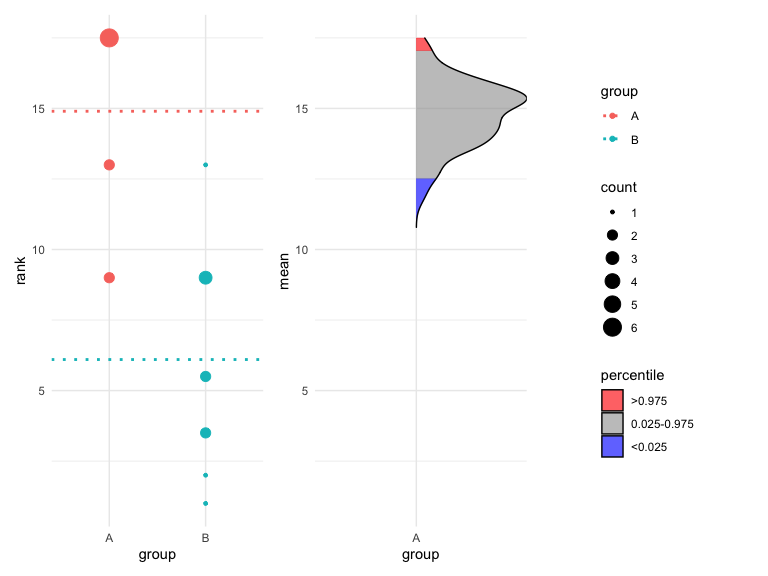
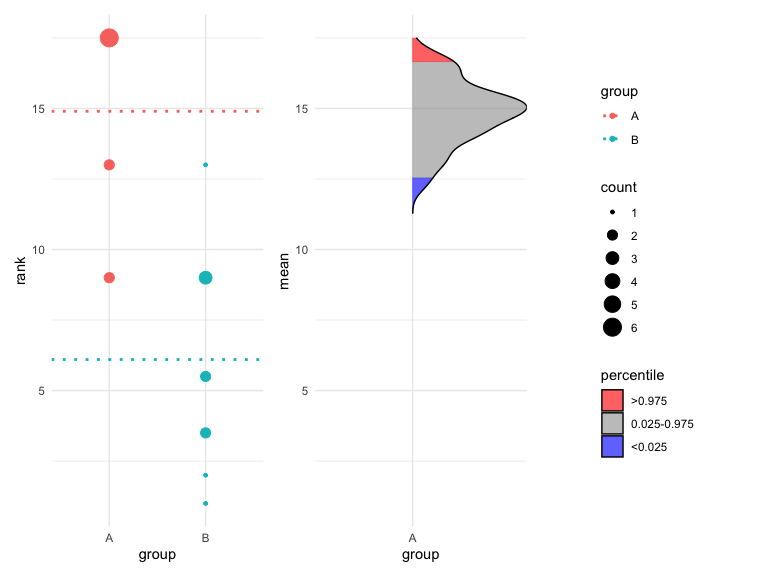
Update Readme

Changed region(s): [[0.5312, 0.0625, 0.6875, 0.4062], [0.5312, 0.9062, 0.5625, 0.9375]]

diff --git a/Readme.md b/Readme.md
@@ -1,7 +1,7 @@
 besthr - Generating Bootstrap Estimation Distributions of HR Data
 ================
 Dan MacLean
-03 May, 2022
+10 May, 2022
 
 <!-- badges: start --> <!-- badges: end -->
 
@@ -17,7 +17,7 @@ already have it)
 
 ``` r
 #install.packages("devtools")
-devtools::install_github("TeamMacLean/besthr@allow_titles"
+devtools::install_github("TeamMacLean/besthr"
 )
 ```
 
@@ -84,7 +84,7 @@ hr_est_1
     ## Unpaired mean rank difference of A (14.9, n=10) minus B (6.1, n=10)
     ##  8.8
     ## Confidence Intervals (0.025, 0.975)
-    ##  3.5475, 8.52625
+    ##  4.12375, 8.6025
     ## 
     ## 100 bootstrap resamples.
 
@@ -92,7 +92,7 @@ hr_est_1
 plot(hr_est_1)
 ```
 
-    ## Picking joint bandwidth of 0.431
+    ## Picking joint bandwidth of 0.443
 
 ![](Readme_files/figure-gfm/unnamed-chunk-2-1.png)<!-- -->
 
@@ -106,7 +106,7 @@ estimate(hr_data_1, score, group, control = "B" ) %>%
   plot()
 ```
 
-    ## Picking joint bandwidth of 0.371
+    ## Picking joint bandwidth of 0.338
 
 ![](Readme_files/figure-gfm/unnamed-chunk-3-1.png)<!-- -->
 
@@ -119,7 +119,7 @@ estimate(hr_data_1, score, group, control = "A", nits = 1000, low = 0.4, high = 
   plot()
 ```
 
-    ## Picking joint bandwidth of 0.253
+    ## Picking joint bandwidth of 0.251
 
 ![](Readme_files/figure-gfm/unnamed-chunk-4-1.png)<!-- -->
 
@@ -174,12 +174,12 @@ hr_est_3
     ## Unpaired mean rank difference of A (5, n=3) minus B (2, n=3)
     ##  3
     ## Confidence Intervals (0.025, 0.975)
-    ##  1, 3
+    ##  1, 2.84166666666666
     ## 
     ## Unpaired mean rank difference of A (5, n=3) minus C (8, n=3)
     ##  -3
     ## Confidence Intervals (0.025, 0.975)
-    ##  7, 8.84166666666666
+    ##  7.33333333333333, 9
     ## 
     ## 100 bootstrap resamples.
 
@@ -187,7 +187,7 @@ hr_est_3
 plot(hr_est_3)
 ```
 
-    ## Picking joint bandwidth of 0.178
+    ## Picking joint bandwidth of 0.172
 
 ![](Readme_files/figure-gfm/unnamed-chunk-5-1.png)<!-- -->
 
@@ -203,7 +203,7 @@ hr_est_3 %>%
   plot(which = "just_data")
 ```
 
-    ## Picking joint bandwidth of 0.178
+    ## Picking joint bandwidth of 0.172
 
 ![](Readme_files/figure-gfm/unnamed-chunk-6-1.png)<!-- -->
 
@@ -230,7 +230,7 @@ p + plot_annotation(title = 'A stylish besthr plot',
                     caption = 'Though this example is not meaningful')
 ```
 
-    ## Picking joint bandwidth of 0.431
+    ## Picking joint bandwidth of 0.443
 
 ![](Readme_files/figure-gfm/unnamed-chunk-7-1.png)<!-- -->
 
@@ -238,7 +238,7 @@ p + plot_annotation(title = 'A stylish besthr plot',
 p
 ```
 
-    ## Picking joint bandwidth of 0.431
+    ## Picking joint bandwidth of 0.443
 
 ![](Readme_files/figure-gfm/unnamed-chunk-7-2.png)<!-- -->
 
@@ -258,7 +258,7 @@ p[[1]] <- p[[1]] + theme(axis.title.y = element_text(family = "Times", colour="b
 p
 ```
 
-    ## Picking joint bandwidth of 0.431
+    ## Picking joint bandwidth of 0.443
 
 ![](Readme_files/figure-gfm/unnamed-chunk-8-1.png)<!-- -->
 
@@ -277,7 +277,7 @@ p[[1]] <- p[[1]] + scale_colour_manual(values = c("blue", "#440000"))
 p
 ```
 
-    ## Picking joint bandwidth of 0.431
+    ## Picking joint bandwidth of 0.443
 
 ![](Readme_files/figure-gfm/unnamed-chunk-9-1.png)<!-- -->
 
@@ -292,7 +292,7 @@ p[[1]] <- p[[1]] + scale_colour_viridis_d()
 p
 ```
 
-    ## Picking joint bandwidth of 0.431
+    ## Picking joint bandwidth of 0.443
 
 ![](Readme_files/figure-gfm/unnamed-chunk-9-2.png)<!-- -->
 
@@ -307,7 +307,7 @@ p[[1]] <- p[[1]] + scale_colour_brewer(type="qual", palette="Accent")
 p
 ```
 
-    ## Picking joint bandwidth of 0.431
+    ## Picking joint bandwidth of 0.443
 
 ![](Readme_files/figure-gfm/unnamed-chunk-9-3.png)<!-- -->
 
@@ -330,6 +330,6 @@ p[[2]] <- p[[2]] + scale_fill_manual(
 p
 ```
 
-    ## Picking joint bandwidth of 0.431
+    ## Picking joint bandwidth of 0.443
 
 ![](Readme_files/figure-gfm/unnamed-chunk-10-1.png)<!-- -->
